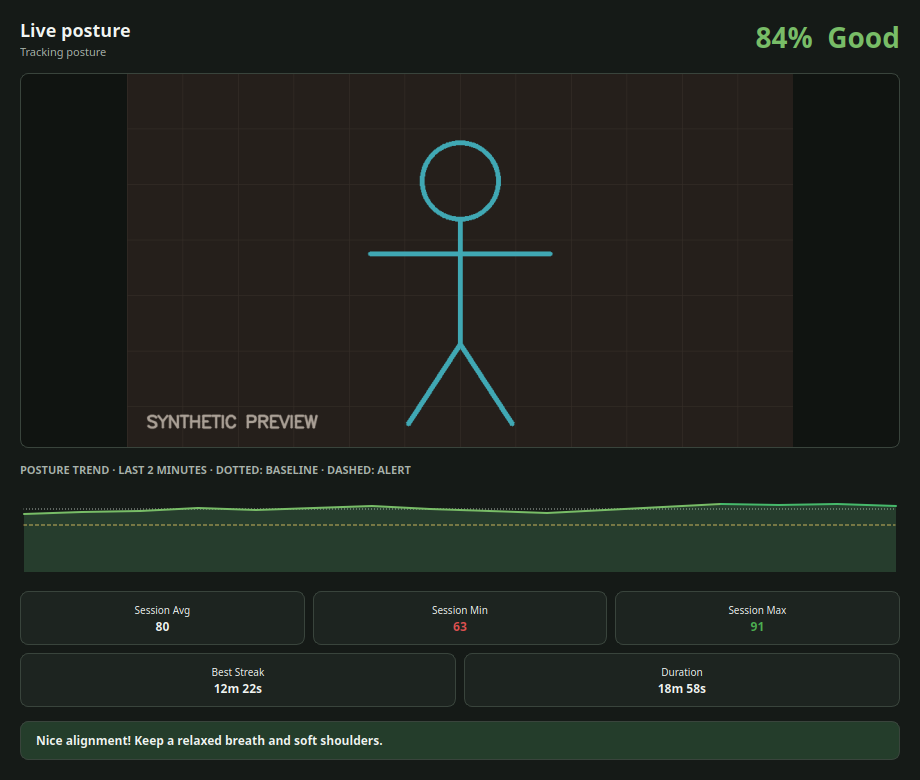
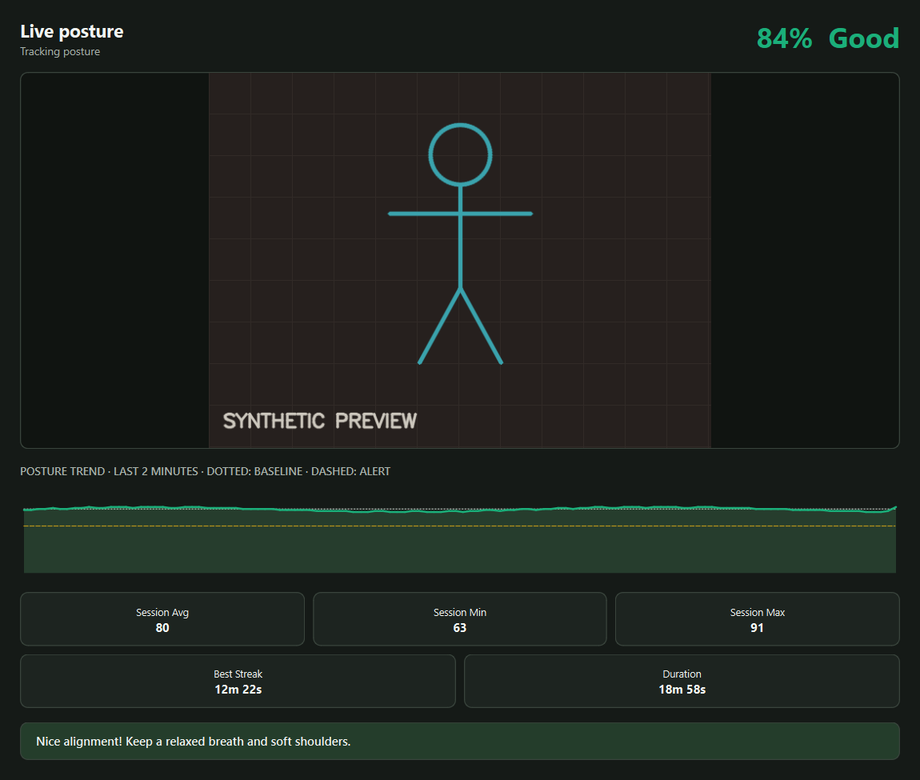
Document Shape tab and colorblind colors; drop red/green dashboard stats
README covers the History Shape tab, hollow/solid candles, and the
colorblind-safe palette. Dashboard min/max stats no longer use hardcoded
red/green, the sparkline docstring points at score_color_hex, and the
screenshot is refreshed. Ignore the local posture-chart reference image.

diff --git a/batesposture/ui/dashboard.py b/batesposture/ui/dashboard.py
@@ -48,8 +48,8 @@ class SparklineWidget(QWidget):
     """Score history area chart with per-segment colour coding.
 
     Displays up to 120 recent posture scores as a filled area chart. Each line
-    segment is coloured by interpolating red (0) → amber (50) → green (100) based
-    on the average of its two endpoints. Pre-populated from persisted database
+    segment is coloured by the score band of the average of its two endpoints
+    (see ``score_color_hex``). Pre-populated from persisted database
     history when the dashboard reopens, so the chart isn't blank after a restart.
     """
 
@@ -335,12 +335,8 @@ class PostureDashboard(QDialog):
         self.score_label.setStyleSheet(f"color: {color};")
         if stats and stats.get("count", 0) > 0:
             self._stat_avg.set_value(f"{stats['avg']:.0f}")
-            self._stat_min.set_value(
-                f"<span style='color:#e05050'>{stats['min']:.0f}</span>"
-            )
-            self._stat_max.set_value(
-                f"<span style='color:#4caf50'>{stats['max']:.0f}</span>"
-            )
+            self._stat_min.set_value(f"{stats['min']:.0f}")
+            self._stat_max.set_value(f"{stats['max']:.0f}")
             best = stats.get("best_streak_s", 0.0)
             streak_str = _format_duration(best) if best >= 5 else "—"
             self._stat_streak.set_value(streak_str)

diff --git a/README.md b/README.md
@@ -55,17 +55,32 @@ This fork adds:
   tracked score (lost-pose reads left out) in separate sit and stand panels,
   with a thin rolling mean over the trailing 11 samples, so swings inside a
   few minutes stay visible. The Chart dropdown still offers 1-minute or
-  5-minute OHLC candlesticks (colored by whether the candle closed up or
-  down) with a Bollinger-style band: a rolling mean ± 2 standard deviations
-  over the trailing 20 candles, computed separately per mode. The Overview's
+  5-minute OHLC candlesticks (light and hollow when the candle closed up,
+  solid when it closed down) with a Bollinger-style band: a rolling mean ±
+  2 standard deviations over the trailing 20 candles, computed separately
+  per mode. The Overview's
   score-over-time chart also draws the raw samples faintly under its mean
   line.
+- **Shape tab** (inside History) — violin plots of the tracked scores, the
+  pooled "All" violin first and then one per group: time of day, minutes
+  into a session, hour of day, weekday, day, or sit/stand. Width shows how
+  often a score occurs (a smoothed histogram); the white dot is the median,
+  the box the middle half (IQR) and the thin line the full range. Each violin
+  is labeled with its sample count and a plain-language shape (symmetric,
+  left- or right-skewed, uniform-ish, bimodal, multimodal), so you can see
+  which split turns one lopsided distribution into distinct groups.
 - **Ctrl+Alt+T global hotkey** — starts tracking from anywhere, not just
   while a BatesPosture window has focus. Unlike the sit/stand hotkeys above
   (which are ordinary Qt menu shortcuts and only fire while a BatesPosture
   window is focused), this one is registered with Windows itself
   (`RegisterHotKey`), so it works while any other application is focused, as
   long as you're logged in. Windows only; a no-op elsewhere.
+- **Colorblind-friendly colors** — score bands run blue → aqua → yellow →
+  red (Excellent → Poor) instead of green → red (tray icon, dashboard,
+  sparkline and camera overlay), sit/stand are orange vs blue, and candle
+  direction is a light hollow vs solid candle rather than green vs red.
+  Every color set was checked under simulated protanopia and deuteranopia,
+  and the tray icon's white digits keep at least 3:1 contrast on every band.
 
 It intentionally does **not** add a sit/stand classifier — the webcam framing
 can only hint which mode you're in, and the user confirms.
